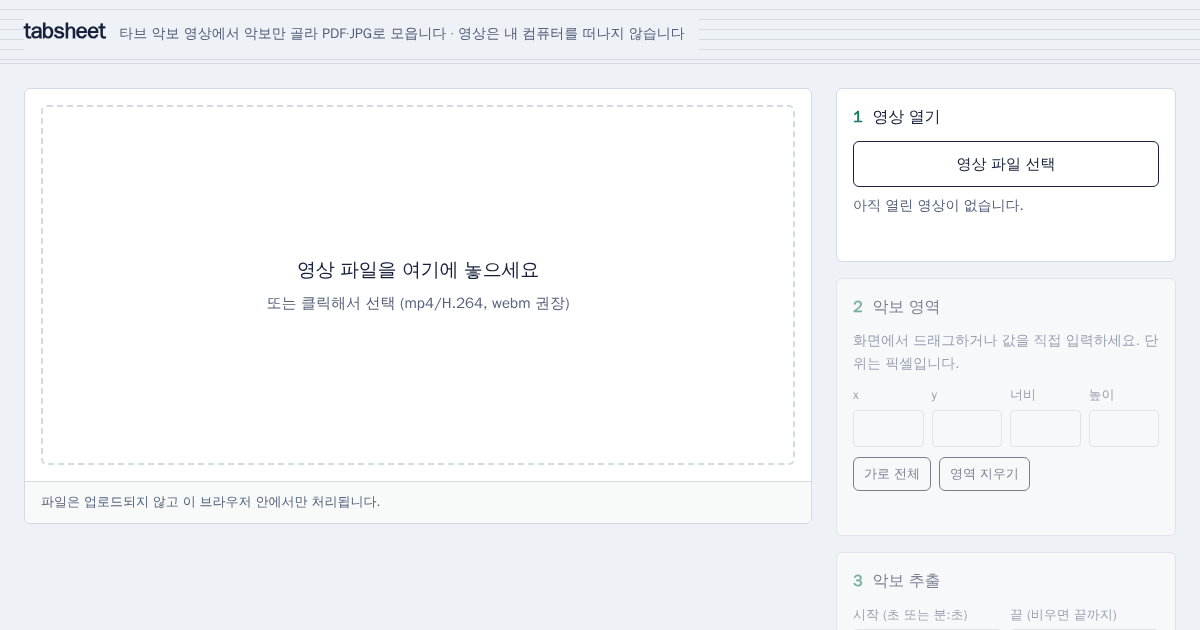
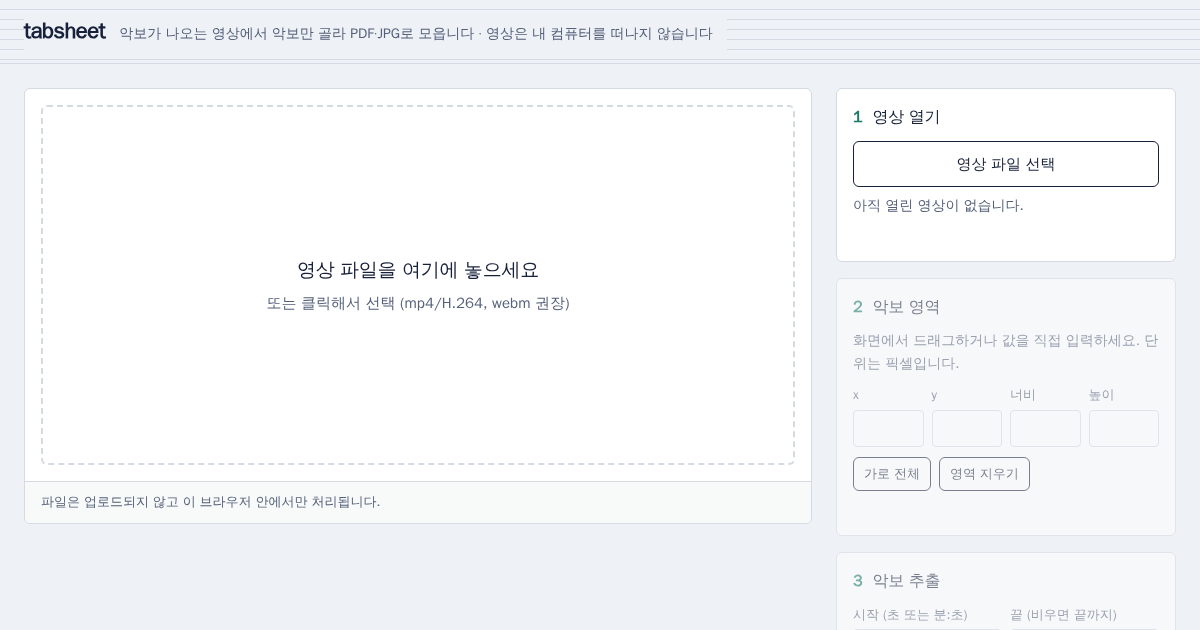
제목을 줄이고 타브 외 영상도 포함하는 문구로
제목·og:title·manifest 이름을 'tabsheet · 영상에서 악보로'로 줄이고,
설명과 헤더 문구를 '악보가 나오는 영상에서'로 바꾼다. og.png도 새 헤더로 다시 찍는다.

Changed region(s): [[0.0925, 0.0302, 0.5858, 0.0603]]

diff --git a/docs/index.html b/docs/index.html
@@ -3,13 +3,13 @@
 <head>
 <meta charset="utf-8">
 <meta name="viewport" content="width=device-width, initial-scale=1">
-<title>tabsheet — 타브 영상에서 악보 뽑기</title>
-<meta name="description" content="타브 악보 영상에서 악보만 골라 PDF·JPG로 모읍니다. 영상은 기기를 떠나지 않습니다.">
+<title>tabsheet · 영상에서 악보로</title>
+<meta name="description" content="악보가 나오는 영상에서 악보만 골라 PDF·JPG로 모읍니다. 영상은 기기를 떠나지 않습니다.">
 <meta property="og:type" content="website">
 <meta property="og:site_name" content="tabsheet">
 <meta property="og:url" content="https://tab.algernon.page/">
-<meta property="og:title" content="tabsheet — 타브 영상에서 악보 뽑기">
-<meta property="og:description" content="타브 악보 영상에서 악보만 골라 PDF·JPG로 모읍니다. 영상은 기기를 떠나지 않습니다.">
+<meta property="og:title" content="tabsheet · 영상에서 악보로">
+<meta property="og:description" content="악보가 나오는 영상에서 악보만 골라 PDF·JPG로 모읍니다. 영상은 기기를 떠나지 않습니다.">
 <meta property="og:image" content="https://tab.algernon.page/og.png">
 <meta property="og:image:width" content="1200">
 <meta property="og:image:height" content="630">
@@ -172,7 +172,7 @@
 <body>
 <div class="notice" id="mobileNote" hidden><p>휴대폰에서도 쓸 수 있지만 <b>PC에서 훨씬 빠르게</b> 처리됩니다. 추출하는 동안에는 이 화면을 켜 두세요 (다른 앱으로 넘어가면 멈췄다가 돌아오면 이어집니다).</p><button id="mobileNoteClose" type="button" aria-label="안내 닫기">×</button></div>
 <header>
-  <div class="mark"><h1>tabsheet</h1><p>타브 악보 영상에서 악보만 골라 PDF·JPG로 모읍니다 · 영상은 내 컴퓨터를 떠나지 않습니다</p></div>
+  <div class="mark"><h1>tabsheet</h1><p>악보가 나오는 영상에서 악보만 골라 PDF·JPG로 모읍니다 · 영상은 내 컴퓨터를 떠나지 않습니다</p></div>
 </header>
 
 <main>

diff --git a/README.md b/README.md
@@ -1,4 +1,4 @@
-# tabsheet — 타브 악보 영상 → 악보 PDF/JPG (브라우저 버전)
+# tabsheet — 영상에서 악보로 (PDF/JPG, 브라우저 버전)
 
 영상에서 **악보가 나오는 사각형 영역**만 잘라, 악보가 바뀔 때마다 한 조각씩 모아 PDF 또는 JPG로 만듭니다.
 서버도 설치도 없는 정적 웹페이지(`docs/`)이며, 영상은 업로드되지 않고 **브라우저 안에서만** 처리됩니다.
